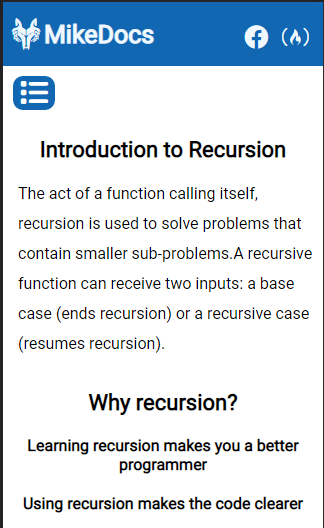
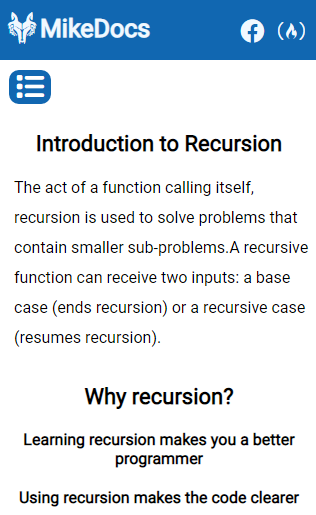
Light-dark mode

Changed region(s): [[0.0, 0.0, 1.0, 1.0], [0.057, 0.7456, 0.9399, 0.9942], [0.1139, 0.2485, 0.9114, 0.3107]]

diff --git a/index.css b/index.css
@@ -1,10 +1,18 @@
-html, body {
-    color:#fff;
+:root {
+    --background-color: #555;
+    --color-white: #fff;
+    --span-color: #222;
+    --greenYellow-color: greenyellow; 
+    --form-color: rgba(0, 0, 0, 0.4); 
+    --back-project: #222;  
+  }
+body {
+    box-sizing: border-box;
+    color: var(--color-white);
     margin: 0;
-    padding: 0;
-    background-color: #555;
+    background-color: var(--background-color);
     font-family: monospace;
-    padding-bottom: 20px;
+    padding-bottom: 10px;
 }
 /*HEADER*/
 header {
@@ -18,7 +26,7 @@ h1 {
 }
 h1 span {
     font-size: 40px;
-    background-color: #222;
+    background-color: var(--span-color);
     padding: 1px 5px 10px 5px;
     border-radius: 2px;
     margin-left: 2px;
@@ -27,15 +35,51 @@ h1 span {
     height: 7.5px;
     width: 75px;
     margin-left: 10px;
-    background-color: greenyellow;
+    background-color: var(--greenYellow-color);
 }
-header i {
-    color: greenyellow;
-    font-size: 35px;
-    margin-left: auto;
-    margin-right: 20px;
-    margin-top: 20px;
-}
+header label {
+    background-color: #222; 
+    margin-right: 10px;  
+    display: flex; 
+    align-items: center; 
+    justify-content: space-between;
+    box-sizing: border-box;
+    padding: 10px;
+    width: 80px; 
+    border-radius: 20px; 
+  }
+  header label #ball {
+    position: absolute; 
+    background-color: #fff;  
+    width: 30px;
+    height: 30px;
+    transform: translateX(0); 
+    border-radius: 50%; 
+    transition: transform .2s linear; 
+  }
+  header label i {
+    position: relative; 
+      color: var(--greenYellow-color);
+      font-size: 20px;
+  }
+  #light_dark {
+    margin-left: auto; 
+  }
+  .checkbox {
+    opacity: 0; 
+  }
+  .checkbox:checked + label #ball {
+    transform: translateX(32px); 
+  }
+  /*DARK MODE*/
+  body.light {
+    --background-color: #DEE4E7;;
+    --color-white: #333;
+    --span-color: #DA70D6;
+    --greenYellow-color: #DA70D6; 
+    --form-color: rgba(224, 159, 186, 0.5);
+    --back-project: #F5F5F5; 
+  }
 /*MAIN*/
 main {
     margin-top: 50px;
@@ -61,13 +105,13 @@ main div p {
     font-size: 20px;
 }
 main section .section-stl {
-    background-color: greenyellow;
+    background-color: var(--greenYellow-color);
 
 }
 main section div h3 {
     padding: 20px;
     font-size: 40px;
-    color: #222;
+    color: #333;
 }
 main section #explanation  {
     margin-left: 20px;
@@ -78,13 +122,13 @@ main section #explanation  {
     box-shadow: -5px 5px 5px #777, 5px -5px 5px #777;
     font-size: 18px;
     text-align: center;
-    background-color: #222;
+    background-color: var(--back-project);
     display: block;
     margin: 0 auto;
     width: 200px;
     height: auto;
     border-radius: 5px;
-    border: #222 20px solid;
+    border: var(--back-project) 20px solid;
     margin-bottom: 30px;
 }
 .project-stl:hover {
@@ -92,7 +136,7 @@ main section #explanation  {
 }
 a {
     text-decoration: none;
-    color: white;
+    color: var(--color-white);
 }
 .image-project {
     display: block;
@@ -125,8 +169,9 @@ a {
 }
 
 #contact form {
-    border: solid 1px #404040;
-    background-color: rgba(0, 0, 0, 0.4);
+    color: var(--color-white);
+    border: solid 1px #404040;;
+    background-color: var(--form-color);
     padding: 20px;
     margin: 0 30px;
     border-radius: 10px;
@@ -194,4 +239,12 @@ button {
 #social_media div a i:hover {
     transform: scale(1.1);
 
+}
+footer {
+    text-align: center;
+    margin-top: 40px;
+}
+script {
+    width: 0;
+    height: 0;
 }

diff --git a/index.html b/index.html
@@ -9,6 +9,7 @@
     <meta name="viewport" content="width=device-width, initial-scale=1.0">
     <link rel="stylesheet" href="index.css">
     <script src="https://kit.fontawesome.com/3fb55c09cc.js" crossorigin="anonymous"></script>
+    
 </head>
 
 <body>
@@ -17,7 +18,14 @@
             <h1>Maik()<span>;</span></h1>
             <div id="style-for-h1"></div>
         </div>
-        <i class="fa-solid fa-circle-half-stroke"></i>
+        <div id="light_dark"> 
+            <input type="checkbox" class="checkbox" id="checkbox">
+          <label for="checkbox">
+            <i class="fa-solid fa-moon"></i>
+            <i class="fas fa-sun"></i> 
+            <div id="ball"></div>
+          </label>
+          </div>
     </header>
 
     <main>
@@ -156,13 +164,11 @@
             </div>
         </section>
 
-
     </main>
-
-    <footer>
-
+    <footer>  
+        <p><small>This Page was created by Maikel Iriarte</small></p>
     </footer>
-
+    <script type="text/javascript" src="./index.js"></script>
 </body>
 
 </html>

diff --git a/index.js b/index.js
@@ -1,0 +1,5 @@
+const checkbox = document.getElementById('checkbox'); 
+
+checkbox.addEventListener('change', () => {
+  document.body.classList.toggle('light');
+});
